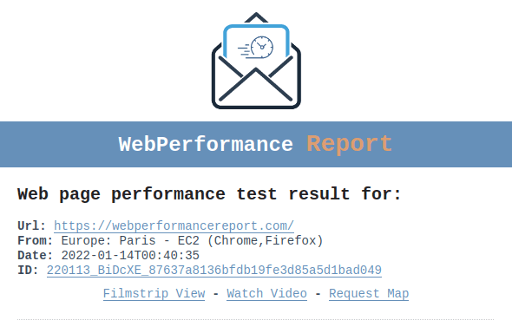
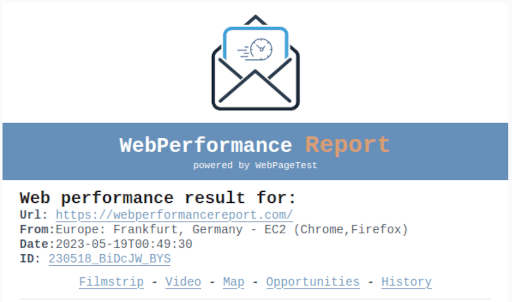
Update report images and move Sponsors section to the top. Remove service worker implementation.

Changed region(s): [[0.0, 0.0298, 1.0, 0.9834]]

diff --git a/_site/index.html b/_site/index.html
@@ -84,9 +84,9 @@
           <label for="ui-section-header--menu-id" class="ui-section-header--menu-icon"></label>
           <!-- MENU -->
           <nav role="navigation" class="ui-section-header--nav ui-layout-flex">
+            <a href="#Sponsors" role="link" aria-label="Featured" class="ui-section-header--nav-link">Sponsors</a>
             <a href="/#Subscribe" role="link" aria-label="Subscribe" class="ui-section-header--nav-link">Subscribe</a>
             <a href="#About" role="link" aria-label="About" class="ui-section-header--nav-link">About</a>
-            <a href="#Sponsors" role="link" aria-label="Featured" class="ui-section-header--nav-link">Sponsors</a>
             <a href="#Users" role="link" aria-label="Users" class="ui-section-header--nav-link">Users</a>
             <a href="#Report" role="link" aria-label="Report" class="ui-section-header--nav-link">Report</a>
             <a href="#Contact" role="link" aria-label="Contact" class="ui-section-header--nav-link">Contact</a>
@@ -110,7 +110,23 @@
               </div>
             </div>
             <!-- IMAGE -->
-            <img src="/assets/img/webperformance-report-hero-image.png" width="512" height="384" fetchpriority="high" alt="WebPerformance Report Inbox" class="ui-image-half-right">
+            <img src="/assets/img/webperformance-report-hero-image.png" width="512" height="428" fetchpriority="high" alt="WebPerformance Report Inbox" class="ui-image-half-right">
+          </div>
+        </div>
+      </section>
+      <section class="ui-section-title">
+        <div class="ui-layout-container">
+          <h2>Sponsors</h2><a name="Sponsors"></a>
+        </div>
+      </section>
+      <section class="ui-section-customer">
+        <div class="ui-layout-container">
+          <p class="ui-text-intro">Special thanks to our Sponsors for helping us to promote a Web Performance culture and supporting us to continue with this great mission. 🚀</p>
+          <div class="ui-section-customer__layout ui-layout-flex">
+            <a href="https://vercel.com/?utm_source=webperfreport&utm_medium=website&utm_campaign=sponsors" rel="noopener" target="_blank"><img src="/assets/img/sponsors/vercel-logotype-dark.png" loading="lazy" alt="vercel" width="200px" height="55px" class="ui-section-customer--logo"></a>
+            <a href="https://www.debugbear.com/?utm_campaign=webperfreport&utm_medium=newsletter" rel="noopener" target="_blank"><img src="/assets/img/sponsors/sponsor-logo-debugbear.png" loading="lazy" alt="debugbear" width="200px" height="43px" class="ui-section-customer--logo"></a>
+          </div>
+          <div style="padding-top: 3rem;" class="ui-section-customer__layout ui-layout-flex">
           </div>
         </div>
       </section>
@@ -135,22 +151,6 @@
         <div class="ui-layout-container">
           <p class="ui-text-intro">WebPerformance Report is a free Web application to monitor the Web Performance of web pages in an automated way through the delivery of a weekly report (Core Web Vitals metrics included) to its Subscribers.</p>
           <p class="ui-text-intro">The web performance report delivered is generated using one of the best web optimization tools on the market such as <a href="https://www.webpagetest.org/?utm_source=webperfreport&utm_medium=website&utm_campaign=sponsors" rel="noopener" target="_blank""><image alt="Powered by WebPageTest" width="120" height="38" loading="lazy" src="/assets/img/logo-webpagetest.png" /></a></p>
-        </div>
-      </section>
-      <section class="ui-section-title">
-        <div class="ui-layout-container">
-          <h2>Sponsors</h2><a name="Sponsors"></a>
-        </div>
-      </section>
-      <section class="ui-section-customer">
-        <div class="ui-layout-container">
-          <p class="ui-text-intro">Special thanks to our Sponsors for helping us to promote a Web Performance culture and supporting us to continue with this great mission. 🚀</p>
-          <div class="ui-section-customer__layout ui-layout-flex">
-            <a href="https://vercel.com/?utm_source=webperfreport&utm_medium=website&utm_campaign=sponsors" rel="noopener" target="_blank"><img src="/assets/img/sponsors/vercel-logotype-dark.png" loading="lazy" alt="vercel" width="200px" height="55px" class="ui-section-customer--logo"></a>
-            <a href="https://www.debugbear.com/?utm_campaign=webperfreport&utm_medium=newsletter" rel="noopener" target="_blank"><img src="/assets/img/sponsors/sponsor-logo-debugbear.png" loading="lazy" alt="debugbear" width="200px" height="43px" class="ui-section-customer--logo"></a>
-          </div>
-          <div style="padding-top: 3rem;" class="ui-section-customer__layout ui-layout-flex">
-          </div>
         </div>
       </section>
       <section class="ui-section-title">
@@ -201,13 +201,13 @@
               <p class="ui-text-intro">Url page. Test location. Test Id. Filmstrip View. Watch Video. Request Map.</p>
             </div>
             <!-- IMAGE -->
-            <img src="/assets/img/report/webperformance-report-email-report-web-page-details.png" width="512" height="177" loading="lazy" alt="Web page test details" class="ui-image-half-right">
+            <img src="/assets/img/report/webperformance-report-email-report-web-page-details.png" width="512" height="302" loading="lazy" alt="Web page test details" class="ui-image-half-right">
           </div>
         </div>
         <div class="ui-layout-container">
           <div class="ui-section-report__layout ui-layout-grid ui-layout-grid-2">
             <!-- IMAGE -->
-            <img src="/assets/img/report/webperformance-report-email-report-optimization-scores.png" width="512" height="216" loading="lazy" alt="Web Performance Optimization Scores" class="ui-image-half-right ui-section-report--capture-scores">
+            <img src="/assets/img/report/webperformance-report-email-report-optimization-scores.png" width="512" height="277" loading="lazy" alt="Web Performance Optimization Scores" class="ui-image-half-right ui-section-report--capture-scores">
             <!-- COPYWRITING -->
             <div class="ui-section-report--capture-content">
               <h2>Web Optimization Scores.</h2>
@@ -223,29 +223,29 @@
               <p class="ui-text-intro">UX Metrics for loading, visual stability, and interactivity. Lab data. Field data (CrUX - Chrome UX Report)  </p>
             </div>
             <!-- IMAGE -->
-            <img src="/assets/img/report/webperformance-report-email-report-core-web-vitals.png" width="512" height="283" loading="lazy" alt="Core Web Vitals" class="ui-image-half-right">
+            <img src="/assets/img/report/webperformance-report-email-report-core-web-vitals.png" width="512" height="257" loading="lazy" alt="Core Web Vitals" class="ui-image-half-right">
           </div>
         </div>
         <div class="ui-layout-container">
           <div class="ui-section-report__layout ui-layout-grid ui-layout-grid-2">
             <!-- IMAGE -->
-            <img src="/assets/img/report/webperformance-report-email-performance-results.png" width="512" height="377" loading="lazy" alt="Web Performance Results" class="ui-image-half-left ui-section-report--capture-results">
+            <img src="/assets/img/report/webperformance-report-email-lighthouse-mobile.png" width="512" height="183" loading="lazy" alt="Web Performance Results" class="ui-image-half-left ui-section-report--capture-results">
             <!-- COPYWRITING -->
             <div class="ui-section-report--capture-content">
-              <h2>Web Performance Results.</h2>
+              <h2>Lighthouse Scores.</h2>
+              <p class="ui-text-intro">Diagnose performance issues - 3G Fast connection.</p>
+            </div>
+          </div>
+        </div>
+        <div class="ui-layout-container">
+          <div class="ui-section-report__layout ui-layout-grid ui-layout-grid-2">
+            <!-- COPYWRITING -->
+            <div class="ui-section-report--capture-content">
+              <h2>Performance Results.</h2>
               <p class="ui-text-intro">High-level metrics information about the page that was tested.</p>
             </div>
-          </div>
-        </div>
-        <div class="ui-layout-container">
-          <div class="ui-section-report__layout ui-layout-grid ui-layout-grid-2">
-            <!-- COPYWRITING -->
-            <div class="ui-section-report--capture-content">
-              <h2>Content Breakdown.</h2>
-              <p class="ui-text-intro">Website content breakdown by MIME type.</p>
-            </div>
             <!-- IMAGE -->
-            <img src="/assets/img/report/webperformance-report-email-report-content-breakdown.png" width="512" height="392" loading="lazy" alt="Content Breakdown" class="ui-image-half-right">
+            <img src="/assets/img/report/webperformance-report-email-performance-results.png" width="512" height="368" loading="lazy" alt="Content Breakdown" class="ui-image-half-right">
           </div>
         </div>
       </section>

diff --git a/_site/privacy-policy/index.html b/_site/privacy-policy/index.html
@@ -84,9 +84,9 @@
           <label for="ui-section-header--menu-id" class="ui-section-header--menu-icon"></label>
           <!-- MENU -->
           <nav role="navigation" class="ui-section-header--nav ui-layout-flex">
+            <a href="#Sponsors" role="link" aria-label="Featured" class="ui-section-header--nav-link">Sponsors</a>
             <a href="/#Subscribe" role="link" aria-label="Subscribe" class="ui-section-header--nav-link">Subscribe</a>
             <a href="#About" role="link" aria-label="About" class="ui-section-header--nav-link">About</a>
-            <a href="#Sponsors" role="link" aria-label="Featured" class="ui-section-header--nav-link">Sponsors</a>
             <a href="#Users" role="link" aria-label="Users" class="ui-section-header--nav-link">Users</a>
             <a href="#Report" role="link" aria-label="Report" class="ui-section-header--nav-link">Report</a>
             <a href="#Contact" role="link" aria-label="Contact" class="ui-section-header--nav-link">Contact</a>
@@ -110,7 +110,23 @@
               </div>
             </div>
             <!-- IMAGE -->
-            <img src="/assets/img/webperformance-report-hero-image.png" width="512" height="384" fetchpriority="high" alt="WebPerformance Report Inbox" class="ui-image-half-right">
+            <img src="/assets/img/webperformance-report-hero-image.png" width="512" height="428" fetchpriority="high" alt="WebPerformance Report Inbox" class="ui-image-half-right">
+          </div>
+        </div>
+      </section>
+      <section class="ui-section-title">
+        <div class="ui-layout-container">
+          <h2>Sponsors</h2><a name="Sponsors"></a>
+        </div>
+      </section>
+      <section class="ui-section-customer">
+        <div class="ui-layout-container">
+          <p class="ui-text-intro">Special thanks to our Sponsors for helping us to promote a Web Performance culture and supporting us to continue with this great mission. 🚀</p>
+          <div class="ui-section-customer__layout ui-layout-flex">
+            <a href="https://vercel.com/?utm_source=webperfreport&utm_medium=website&utm_campaign=sponsors" rel="noopener" target="_blank"><img src="/assets/img/sponsors/vercel-logotype-dark.png" loading="lazy" alt="vercel" width="200px" height="55px" class="ui-section-customer--logo"></a>
+            <a href="https://www.debugbear.com/?utm_campaign=webperfreport&utm_medium=newsletter" rel="noopener" target="_blank"><img src="/assets/img/sponsors/sponsor-logo-debugbear.png" loading="lazy" alt="debugbear" width="200px" height="43px" class="ui-section-customer--logo"></a>
+          </div>
+          <div style="padding-top: 3rem;" class="ui-section-customer__layout ui-layout-flex">
           </div>
         </div>
       </section>
@@ -137,22 +153,6 @@
         <div class="ui-layout-container">
           <p class="ui-text-intro">WebPerformance Report is a free Web application to monitor the Web Performance of web pages in an automated way through the delivery of a weekly report (Core Web Vitals metrics included) to its Subscribers.</p>
           <p class="ui-text-intro">The web performance report delivered is generated using one of the best web optimization tools on the market such as <a href="https://www.webpagetest.org/?utm_source=webperfreport&utm_medium=website&utm_campaign=sponsors" rel="noopener" target="_blank""><image alt="Powered by WebPageTest" width="120" height="38" loading="lazy" src="/assets/img/logo-webpagetest.png" /></a></p>
-        </div>
-      </section>
-      <section class="ui-section-title">
-        <div class="ui-layout-container">
-          <h2>Sponsors</h2><a name="Sponsors"></a>
-        </div>
-      </section>
-      <section class="ui-section-customer">
-        <div class="ui-layout-container">
-          <p class="ui-text-intro">Special thanks to our Sponsors for helping us to promote a Web Performance culture and supporting us to continue with this great mission. 🚀</p>
-          <div class="ui-section-customer__layout ui-layout-flex">
-            <a href="https://vercel.com/?utm_source=webperfreport&utm_medium=website&utm_campaign=sponsors" rel="noopener" target="_blank"><img src="/assets/img/sponsors/vercel-logotype-dark.png" loading="lazy" alt="vercel" width="200px" height="55px" class="ui-section-customer--logo"></a>
-            <a href="https://www.debugbear.com/?utm_campaign=webperfreport&utm_medium=newsletter" rel="noopener" target="_blank"><img src="/assets/img/sponsors/sponsor-logo-debugbear.png" loading="lazy" alt="debugbear" width="200px" height="43px" class="ui-section-customer--logo"></a>
-          </div>
-          <div style="padding-top: 3rem;" class="ui-section-customer__layout ui-layout-flex">
-          </div>
         </div>
       </section>
       <section class="ui-section-title">
@@ -203,13 +203,13 @@
               <p class="ui-text-intro">Url page. Test location. Test Id. Filmstrip View. Watch Video. Request Map.</p>
             </div>
             <!-- IMAGE -->
-            <img src="/assets/img/report/webperformance-report-email-report-web-page-details.png" width="512" height="177" loading="lazy" alt="Web page test details" class="ui-image-half-right">
+            <img src="/assets/img/report/webperformance-report-email-report-web-page-details.png" width="512" height="302" loading="lazy" alt="Web page test details" class="ui-image-half-right">
           </div>
         </div>
         <div class="ui-layout-container">
           <div class="ui-section-report__layout ui-layout-grid ui-layout-grid-2">
             <!-- IMAGE -->
-            <img src="/assets/img/report/webperformance-report-email-report-optimization-scores.png" width="512" height="216" loading="lazy" alt="Web Performance Optimization Scores" class="ui-image-half-right ui-section-report--capture-scores">
+            <img src="/assets/img/report/webperformance-report-email-report-optimization-scores.png" width="512" height="277" loading="lazy" alt="Web Performance Optimization Scores" class="ui-image-half-right ui-section-report--capture-scores">
             <!-- COPYWRITING -->
             <div class="ui-section-report--capture-content">
               <h2>Web Optimization Scores.</h2>
@@ -225,29 +225,29 @@
               <p class="ui-text-intro">UX Metrics for loading, visual stability, and interactivity. Lab data. Field data (CrUX - Chrome UX Report)  </p>
             </div>
             <!-- IMAGE -->
-            <img src="/assets/img/report/webperformance-report-email-report-core-web-vitals.png" width="512" height="283" loading="lazy" alt="Core Web Vitals" class="ui-image-half-right">
+            <img src="/assets/img/report/webperformance-report-email-report-core-web-vitals.png" width="512" height="257" loading="lazy" alt="Core Web Vitals" class="ui-image-half-right">
           </div>
         </div>
         <div class="ui-layout-container">
           <div class="ui-section-report__layout ui-layout-grid ui-layout-grid-2">
             <!-- IMAGE -->
-            <img src="/assets/img/report/webperformance-report-email-performance-results.png" width="512" height="377" loading="lazy" alt="Web Performance Results" class="ui-image-half-left ui-section-report--capture-results">
+            <img src="/assets/img/report/webperformance-report-email-lighthouse-mobile.png" width="512" height="183" loading="lazy" alt="Web Performance Results" class="ui-image-half-left ui-section-report--capture-results">
             <!-- COPYWRITING -->
             <div class="ui-section-report--capture-content">
-              <h2>Web Performance Results.</h2>
+              <h2>Lighthouse Scores.</h2>
+              <p class="ui-text-intro">Diagnose performance issues - 3G Fast connection.</p>
+            </div>
+          </div>
+        </div>
+        <div class="ui-layout-container">
+          <div class="ui-section-report__layout ui-layout-grid ui-layout-grid-2">
+            <!-- COPYWRITING -->
+            <div class="ui-section-report--capture-content">
+              <h2>Performance Results.</h2>
               <p class="ui-text-intro">High-level metrics information about the page that was tested.</p>
             </div>
-          </div>
-        </div>
-        <div class="ui-layout-container">
-          <div class="ui-section-report__layout ui-layout-grid ui-layout-grid-2">
-            <!-- COPYWRITING -->
-            <div class="ui-section-report--capture-content">
-              <h2>Content Breakdown.</h2>
-              <p class="ui-text-intro">Website content breakdown by MIME type.</p>
-            </div>
             <!-- IMAGE -->
-            <img src="/assets/img/report/webperformance-report-email-report-content-breakdown.png" width="512" height="392" loading="lazy" alt="Content Breakdown" class="ui-image-half-right">
+            <img src="/assets/img/report/webperformance-report-email-performance-results.png" width="512" height="368" loading="lazy" alt="Content Breakdown" class="ui-image-half-right">
           </div>
         </div>
       </section>

diff --git a/_site/thanks/index.html b/_site/thanks/index.html
@@ -84,9 +84,9 @@
           <label for="ui-section-header--menu-id" class="ui-section-header--menu-icon"></label>
           <!-- MENU -->
           <nav role="navigation" class="ui-section-header--nav ui-layout-flex">
+            <a href="#Sponsors" role="link" aria-label="Featured" class="ui-section-header--nav-link">Sponsors</a>
             <a href="/#Subscribe" role="link" aria-label="Subscribe" class="ui-section-header--nav-link">Subscribe</a>
             <a href="#About" role="link" aria-label="About" class="ui-section-header--nav-link">About</a>
-            <a href="#Sponsors" role="link" aria-label="Featured" class="ui-section-header--nav-link">Sponsors</a>
             <a href="#Users" role="link" aria-label="Users" class="ui-section-header--nav-link">Users</a>
             <a href="#Report" role="link" aria-label="Report" class="ui-section-header--nav-link">Report</a>
             <a href="#Contact" role="link" aria-label="Contact" class="ui-section-header--nav-link">Contact</a>
@@ -110,7 +110,23 @@
               </div>
             </div>
             <!-- IMAGE -->
-            <img src="/assets/img/webperformance-report-hero-image.png" width="512" height="384" fetchpriority="high" alt="WebPerformance Report Inbox" class="ui-image-half-right">
+            <img src="/assets/img/webperformance-report-hero-image.png" width="512" height="428" fetchpriority="high" alt="WebPerformance Report Inbox" class="ui-image-half-right">
+          </div>
+        </div>
+      </section>
+      <section class="ui-section-title">
+        <div class="ui-layout-container">
+          <h2>Sponsors</h2><a name="Sponsors"></a>
+        </div>
+      </section>
+      <section class="ui-section-customer">
+        <div class="ui-layout-container">
+          <p class="ui-text-intro">Special thanks to our Sponsors for helping us to promote a Web Performance culture and supporting us to continue with this great mission. 🚀</p>
+          <div class="ui-section-customer__layout ui-layout-flex">
+            <a href="https://vercel.com/?utm_source=webperfreport&utm_medium=website&utm_campaign=sponsors" rel="noopener" target="_blank"><img src="/assets/img/sponsors/vercel-logotype-dark.png" loading="lazy" alt="vercel" width="200px" height="55px" class="ui-section-customer--logo"></a>
+            <a href="https://www.debugbear.com/?utm_campaign=webperfreport&utm_medium=newsletter" rel="noopener" target="_blank"><img src="/assets/img/sponsors/sponsor-logo-debugbear.png" loading="lazy" alt="debugbear" width="200px" height="43px" class="ui-section-customer--logo"></a>
+          </div>
+          <div style="padding-top: 3rem;" class="ui-section-customer__layout ui-layout-flex">
           </div>
         </div>
       </section>
@@ -136,22 +152,6 @@
         <div class="ui-layout-container">
           <p class="ui-text-intro">WebPerformance Report is a free Web application to monitor the Web Performance of web pages in an automated way through the delivery of a weekly report (Core Web Vitals metrics included) to its Subscribers.</p>
           <p class="ui-text-intro">The web performance report delivered is generated using one of the best web optimization tools on the market such as <a href="https://www.webpagetest.org/?utm_source=webperfreport&utm_medium=website&utm_campaign=sponsors" rel="noopener" target="_blank""><image alt="Powered by WebPageTest" width="120" height="38" loading="lazy" src="/assets/img/logo-webpagetest.png" /></a></p>
-        </div>
-      </section>
-      <section class="ui-section-title">
-        <div class="ui-layout-container">
-          <h2>Sponsors</h2><a name="Sponsors"></a>
-        </div>
-      </section>
-      <section class="ui-section-customer">
-        <div class="ui-layout-container">
-          <p class="ui-text-intro">Special thanks to our Sponsors for helping us to promote a Web Performance culture and supporting us to continue with this great mission. 🚀</p>
-          <div class="ui-section-customer__layout ui-layout-flex">
-            <a href="https://vercel.com/?utm_source=webperfreport&utm_medium=website&utm_campaign=sponsors" rel="noopener" target="_blank"><img src="/assets/img/sponsors/vercel-logotype-dark.png" loading="lazy" alt="vercel" width="200px" height="55px" class="ui-section-customer--logo"></a>
-            <a href="https://www.debugbear.com/?utm_campaign=webperfreport&utm_medium=newsletter" rel="noopener" target="_blank"><img src="/assets/img/sponsors/sponsor-logo-debugbear.png" loading="lazy" alt="debugbear" width="200px" height="43px" class="ui-section-customer--logo"></a>
-          </div>
-          <div style="padding-top: 3rem;" class="ui-section-customer__layout ui-layout-flex">
-          </div>
         </div>
       </section>
       <section class="ui-section-title">
@@ -202,13 +202,13 @@
               <p class="ui-text-intro">Url page. Test location. Test Id. Filmstrip View. Watch Video. Request Map.</p>
             </div>
             <!-- IMAGE -->
-            <img src="/assets/img/report/webperformance-report-email-report-web-page-details.png" width="512" height="177" loading="lazy" alt="Web page test details" class="ui-image-half-right">
+            <img src="/assets/img/report/webperformance-report-email-report-web-page-details.png" width="512" height="302" loading="lazy" alt="Web page test details" class="ui-image-half-right">
           </div>
         </div>
         <div class="ui-layout-container">
           <div class="ui-section-report__layout ui-layout-grid ui-layout-grid-2">
             <!-- IMAGE -->
-            <img src="/assets/img/report/webperformance-report-email-report-optimization-scores.png" width="512" height="216" loading="lazy" alt="Web Performance Optimization Scores" class="ui-image-half-right ui-section-report--capture-scores">
+            <img src="/assets/img/report/webperformance-report-email-report-optimization-scores.png" width="512" height="277" loading="lazy" alt="Web Performance Optimization Scores" class="ui-image-half-right ui-section-report--capture-scores">
             <!-- COPYWRITING -->
             <div class="ui-section-report--capture-content">
               <h2>Web Optimization Scores.</h2>
@@ -224,29 +224,29 @@
               <p class="ui-text-intro">UX Metrics for loading, visual stability, and interactivity. Lab data. Field data (CrUX - Chrome UX Report)  </p>
             </div>
             <!-- IMAGE -->
-            <img src="/assets/img/report/webperformance-report-email-report-core-web-vitals.png" width="512" height="283" loading="lazy" alt="Core Web Vitals" class="ui-image-half-right">
+            <img src="/assets/img/report/webperformance-report-email-report-core-web-vitals.png" width="512" height="257" loading="lazy" alt="Core Web Vitals" class="ui-image-half-right">
           </div>
         </div>
         <div class="ui-layout-container">
           <div class="ui-section-report__layout ui-layout-grid ui-layout-grid-2">
             <!-- IMAGE -->
-            <img src="/assets/img/report/webperformance-report-email-performance-results.png" width="512" height="377" loading="lazy" alt="Web Performance Results" class="ui-image-half-left ui-section-report--capture-results">
+            <img src="/assets/img/report/webperformance-report-email-lighthouse-mobile.png" width="512" height="183" loading="lazy" alt="Web Performance Results" class="ui-image-half-left ui-section-report--capture-results">
             <!-- COPYWRITING -->
             <div class="ui-section-report--capture-content">
-              <h2>Web Performance Results.</h2>
+              <h2>Lighthouse Scores.</h2>
+              <p class="ui-text-intro">Diagnose performance issues - 3G Fast connection.</p>
+            </div>
+          </div>
+        </div>
+        <div class="ui-layout-container">
+          <div class="ui-section-report__layout ui-layout-grid ui-layout-grid-2">
+            <!-- COPYWRITING -->
+            <div class="ui-section-report--capture-content">
+              <h2>Performance Results.</h2>
               <p class="ui-text-intro">High-level metrics information about the page that was tested.</p>
             </div>
-          </div>
-        </div>
-        <div class="ui-layout-container">
-          <div class="ui-section-report__layout ui-layout-grid ui-layout-grid-2">
-            <!-- COPYWRITING -->
-            <div class="ui-section-report--capture-content">
-              <h2>Content Breakdown.</h2>
-              <p class="ui-text-intro">Website content breakdown by MIME type.</p>
-            </div>
             <!-- IMAGE -->
-            <img src="/assets/img/report/webperformance-report-email-report-content-breakdown.png" width="512" height="392" loading="lazy" alt="Content Breakdown" class="ui-image-half-right">
+            <img src="/assets/img/report/webperformance-report-email-performance-results.png" width="512" height="368" loading="lazy" alt="Content Breakdown" class="ui-image-half-right">
           </div>
         </div>
       </section>
